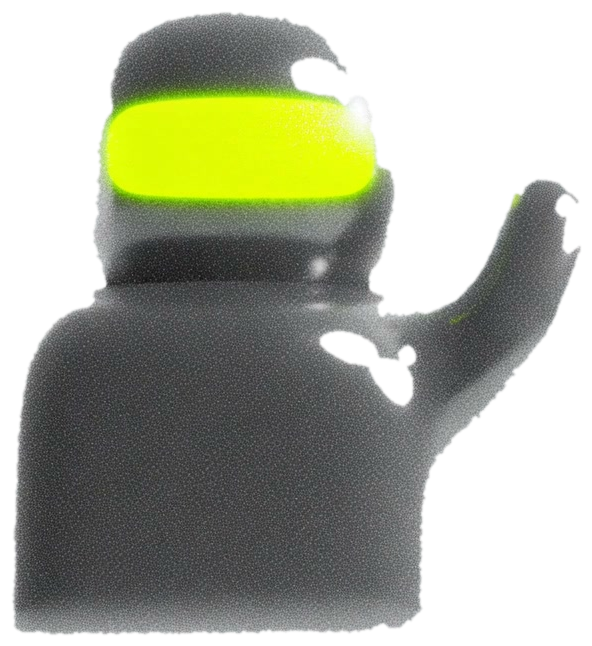
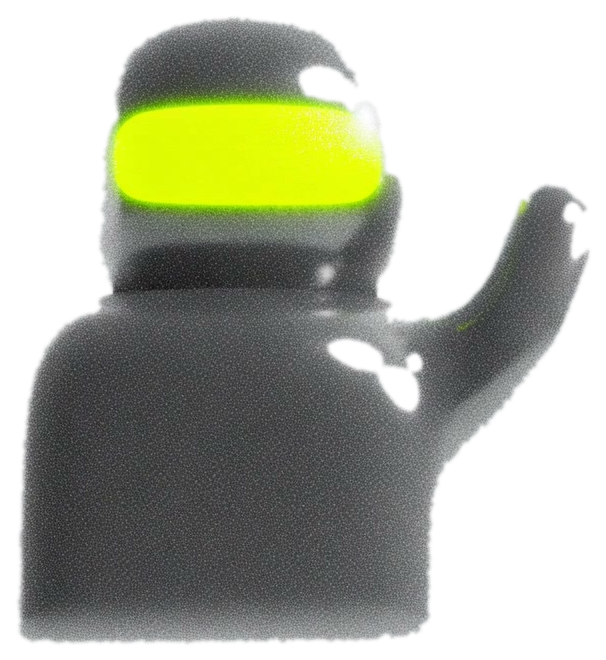
philosophy: add a large floating R080 brand-hero moment where the retired soundtrack block was (float/sway + breathing lime glow, theme-aware); cleaner matte for the cutout at large size

diff --git a/src/app/components/agency/Philosophy.tsx b/src/app/components/agency/Philosophy.tsx
@@ -227,9 +227,34 @@ export function Philosophy() {
         </div>
       </div>
 
-      {/* Soundtrack section REMOVED 2026-06-10 (client decision) - the Spotify
-          album embed 404'd ("We can't seem to find the page"). The Mompou
-          ambient lives on in the site-wide audio system (AudioContext). */}
+      {/* Brand-hero moment - R080, the operator's sidekick. A large floating robot
+          fills the gap left by the retired soundtrack block. Transparent cutout so
+          it sits on both themes; CSS float/sway + a breathing lime glow behind. */}
+      <div className="max-w-[1800px] mx-auto px-8 md:px-12 py-24 md:py-36 border-b border-neutral-200 dark:border-white/10">
+        <Reveal>
+          <div className="relative flex flex-col items-center text-center">
+            <div
+              className="pointer-events-none absolute top-1/2 left-1/2 -translate-x-1/2 -translate-y-1/2 w-[min(62vw,540px)] aspect-square rounded-full bg-[#D4FF00] blur-[80px] motion-safe:[animation:r352glow_5s_ease-in-out_infinite]"
+              style={{ opacity: 0.12 }}
+              aria-hidden="true"
+            />
+            <span className="relative block text-xs font-display uppercase tracking-[0.2em] text-neutral-800 dark:text-[#D4FF00] mb-8">
+              {language === 'pl' ? 'Poznaj R080' : 'Meet R080'}
+            </span>
+            <img
+              src="/brand-hero/robot.png"
+              alt="R080 - the r352 brand hero"
+              draggable={false}
+              className="relative w-[clamp(220px,32vw,360px)] h-auto origin-bottom motion-safe:[animation:r352float_5s_ease-in-out_infinite] drop-shadow-[0_30px_60px_rgba(0,0,0,0.45)]"
+            />
+            <p className="relative mt-10 max-w-md text-[15px] md:text-base text-neutral-600 dark:text-neutral-400 leading-relaxed">
+              {language === 'pl'
+                ? 'System, który dostał twarz - ta sama dyscyplina, cieplej.'
+                : 'The system, with a face - same discipline, warmer.'}
+            </p>
+          </div>
+        </Reveal>
+      </div>
 
       {/* Contrasts: Not This → This */}
       <div className="max-w-[1800px] mx-auto px-8 md:px-12 py-24 md:py-32 border-b border-neutral-200 dark:border-white/10">

diff --git a/src/styles/theme.css b/src/styles/theme.css
@@ -885,3 +885,14 @@ body:is(.lime-theme, .global-light-mode) a.text-white:hover {
 @media (prefers-reduced-motion: reduce) {
   .r352-bob { animation: none !important; }
 }
+
+/* Large brand-hero (R080) on /philosophy - slow float + gentle sway, and a
+   breathing lime glow behind it. */
+@keyframes r352float {
+  0%, 100% { transform: translateY(0) rotate(-1deg); }
+  50% { transform: translateY(-16px) rotate(1.5deg); }
+}
+@keyframes r352glow {
+  0%, 100% { opacity: 0.08; }
+  50% { opacity: 0.16; }
+}
